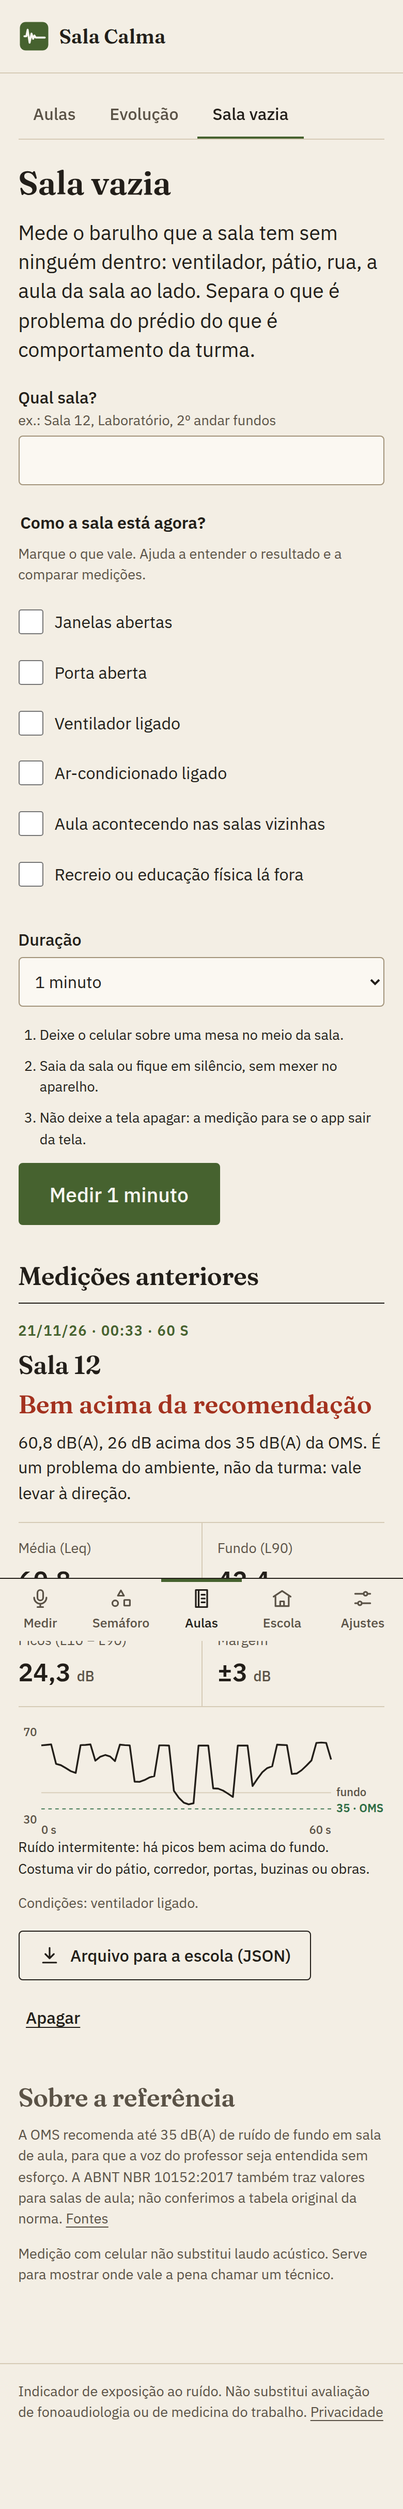
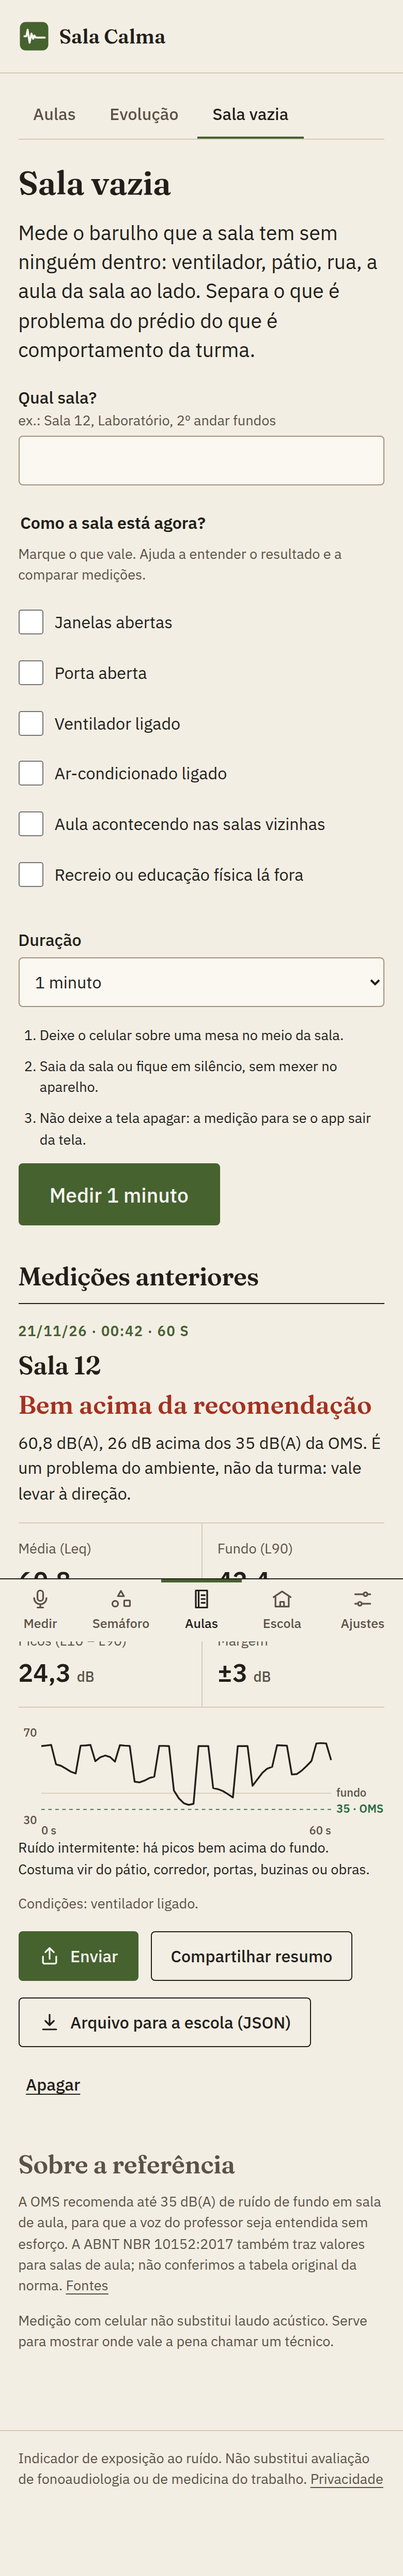
test,docs: e2e de compartilhamento e README

diff --git a/README.md b/README.md
@@ -24,7 +24,8 @@ Medidor de ruído para a sala de aula. Usa o microfone do celular, **não grava 
 4. **Momentos da aula.** Durante a medição, botões “Explicação”, “Exercício”, “Grupo”, “Prova” e “Transição” marcam o que está acontecendo; cada marcação vale até a próxima. Tocou errado? Toque no certo em até 10 s e a marcação é corrigida. O relatório mostra a faixa de momentos sob a linha do tempo, uma tabela por momento (tempo, % na faixa alta, média, Risco Vocal) e destaca o mais barulhento (só com 2+ momentos de 2 min ou mais). CSV e JSON levam os momentos; o painel da escola soma por tipo de atividade.
 5. **Evolução.** Semana a semana (últimas 8): Tempo de Risco Vocal somado e % do tempo na faixa alta, comparando com a semana anterior. Por turma: aula a aula e tendência (“mais calma”, “estável”, “mais barulhenta”), só afirmada com 4+ aulas e diferença de 5 pontos ou mais.
 6. **Sala vazia.** Medição de 1 ou 2 minutos sem a turma, com as condições anotadas (janelas, ventilador, recreio…). Compara o Leq com os 35 dB(A) da OMS **considerando a margem de erro** (se a diferença cabe na margem, o app diz que não dá para afirmar) e indica se o ruído é constante (ventilador, ar) ou intermitente (pátio, corredor). Separa problema do prédio de comportamento da turma.
-7. **Painel da escola, sem servidor.** A coordenação abre vários JSON exportados (aulas e salas vazias) e vê, por turma, dia e horário, onde a acústica pesa mais, além da tabela de salas vazias acima da recomendação. Imprime relatório para direção, CIPA ou Regional.
+7. **Enviar para a coordenação.** No relatório, na sala vazia e em Aulas › “Enviar várias” (arquivo único por período), o botão abre o menu de compartilhar do aparelho (WhatsApp, e-mail…) com o arquivo e um resumo em texto. Sem menu de compartilhar (ex.: Chrome no computador), baixa o arquivo e copia o resumo. O Chrome do Android não compartilha `.json`; nesse caso o mesmo conteúdo vai como `.txt`, que o painel da escola também abre. PDF continua por “Imprimir › Salvar como PDF”.
+8. **Painel da escola, sem servidor.** A coordenação abre vários JSON exportados (aulas e salas vazias) e vê, por turma, dia e horário, onde a acústica pesa mais, além da tabela de salas vazias acima da recomendação. Imprime relatório para direção, CIPA ou Regional.
 
 ## O que não faz
 
@@ -87,8 +88,8 @@ Todos os limiares são ajustáveis em **Ajustes**. As fontes também aparecem de
 
 ## Testes e qualidade
 
-- `npm test`: 105 testes unitários. Ponderação A, Leq/L10/L90, calibração, Tempo de Risco Vocal, lacunas, exportação, agregação da escola, momentos da aula (marcação, correção, estatística por atividade, exportação), evolução semanal e por turma, sala vazia (comparação com a OMS e margem de erro) e privacidade (nenhum caminho de gravação ou envio no código).
-- `npm run test:e2e`: no Chrome real, com som de sala sintético. Migra um banco no formato da versão 1 sem perder aulas, mede, confere que **nenhuma requisição sai para a rede durante a medição** (só leituras do cache local), que o IndexedDB guarda **só números e textos curtos**, pausa/lacuna no relatório, marcação de momentos (com correção de toque errado), tela de evolução, medição da sala vazia, exportação e leitura no painel da escola, abertura **offline** e ausência de erros de instalabilidade do manifest.
+- `npm test`: 121 testes unitários. Ponderação A, Leq/L10/L90, calibração, Tempo de Risco Vocal, lacunas, exportação, agregação da escola, compartilhamento (resumo em texto, arquivo único por período, fallback .json → .txt → download), momentos da aula (marcação, correção, estatística por atividade, exportação), evolução semanal e por turma, sala vazia (comparação com a OMS e margem de erro) e privacidade (nenhum caminho de gravação ou envio no código).
+- `npm run test:e2e`: no Chrome real, com som de sala sintético. Migra um banco no formato da versão 1 sem perder aulas, mede, confere que **nenhuma requisição sai para a rede durante a medição** (só leituras do cache local), que o IndexedDB guarda **só números e textos curtos**, pausa/lacuna no relatório, marcação de momentos (com correção de toque errado), tela de evolução, medição da sala vazia, compartilhamento (sem menu nativo e com menu simulado do Android recusando .json), exportação e leitura no painel da escola, abertura **offline** e ausência de erros de instalabilidade do manifest.
 - Lighthouse (mobile, build de produção): Desempenho 98–99, Acessibilidade 100, Boas práticas 100, SEO 100.
 - Peso: cerca de 32 kB de JS + 6 kB de CSS (gzip) na primeira carga, sem contar as fontes.
 
